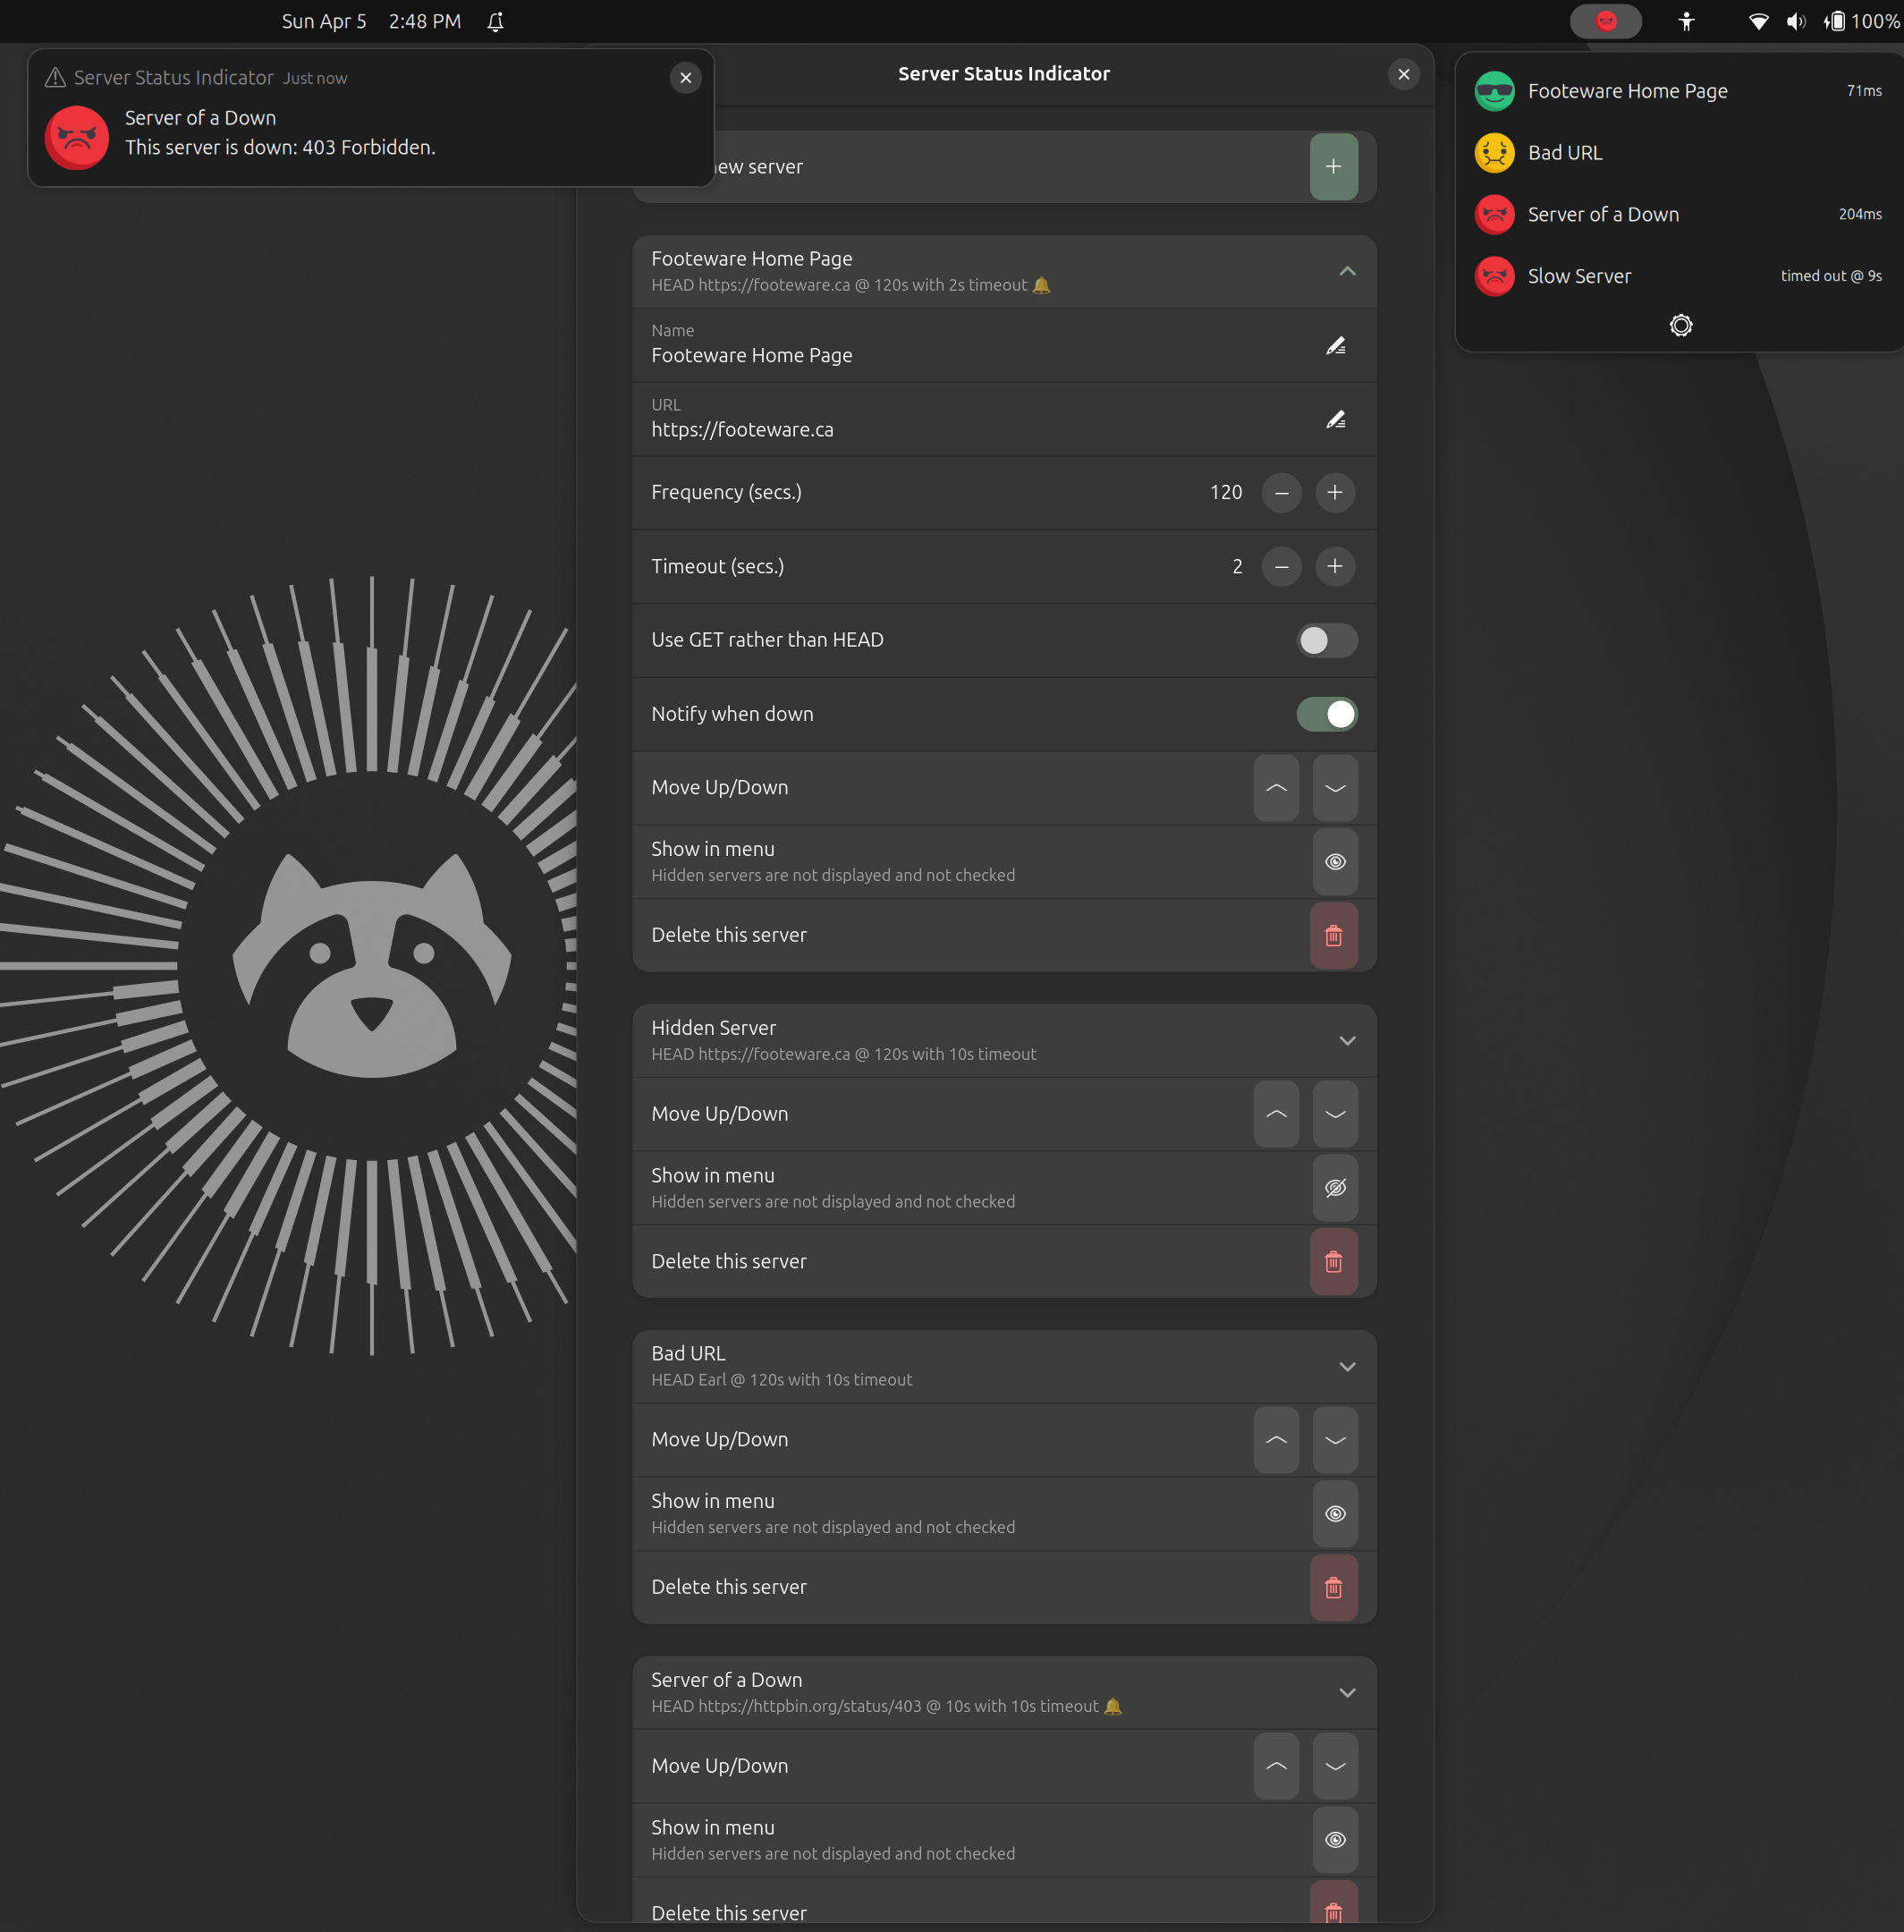
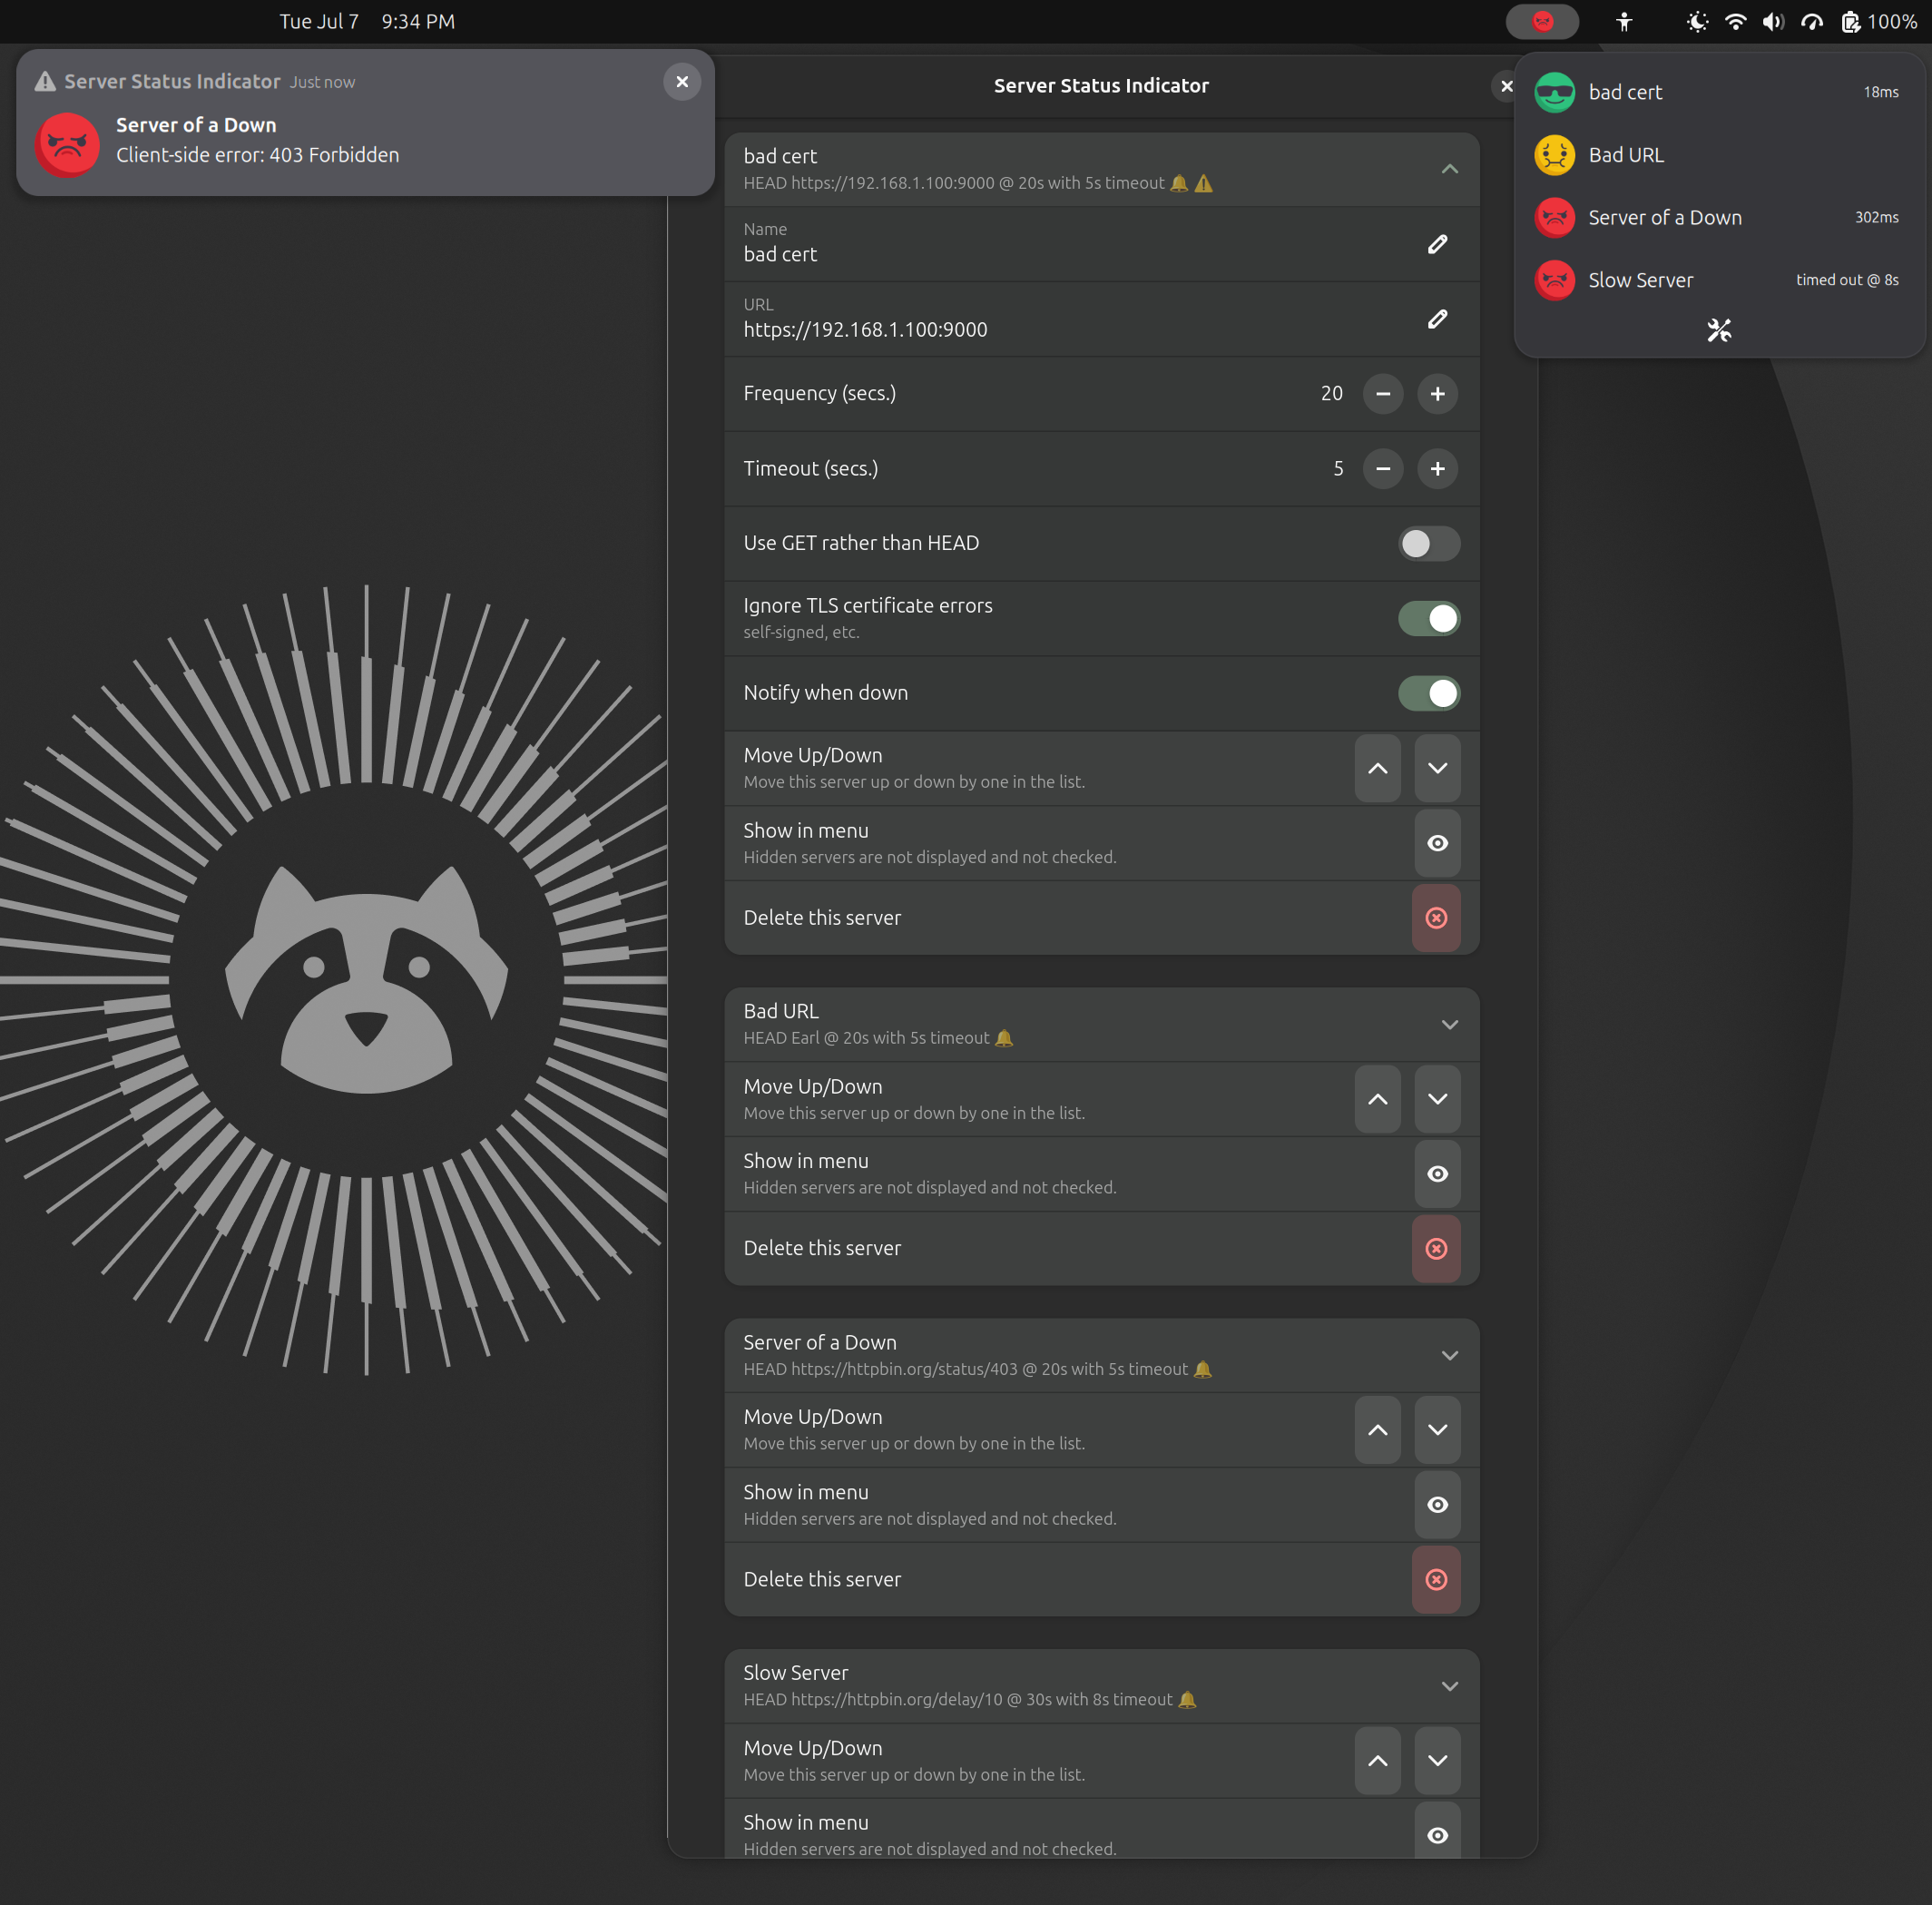
More suspend tweaking

diff --git a/serverStatusPanel.js b/serverStatusPanel.js
@@ -205,8 +205,6 @@ export const ServerStatusPanel = GObject.registerClass(
                 const cancellable = new Gio.Cancellable();
                 this.pendingCancellables.add(cancellable);
 
-                console.log(`🤨🤨🤨 requesting...`);
-
                 // start duration calc.
                 const start = Date.now();
 
@@ -219,12 +217,9 @@ export const ServerStatusPanel = GObject.registerClass(
                         // response received, complete duration calc.
                         const duration = Date.now() - start;
 
-                        console.log(`🤨🤨🤨 ...response`);
-
                         // remove completed request from pending set
                         this.pendingCancellables?.delete(cancellable);
                         if (cancellable.is_cancelled()) {
-                            console.log(`🤨🤨🤨 cancellable.is_cancelled`);
                             return;
                         }
 
@@ -233,7 +228,6 @@ export const ServerStatusPanel = GObject.registerClass(
                         let reason;
 
                         if (error) {
-                            console.log(`🤨🤨🤨 error = ${error}`);
                             // extension unable to send request
                             if (panelIcon && !panelIconDisposed && this.iconProvider) {
                                 reason = error.toString();
@@ -243,27 +237,22 @@ export const ServerStatusPanel = GObject.registerClass(
 
                         if (!newIcon) {
                             try {
-                                console.log(`🤨🤨🤨 try to get result`);
                                 // we aren't interested in the result if there is one, make this call to get exception
                                 session.send_and_read_finish(result);
                             } catch (e) {
-                                console.log(`🤨🤨🤨 in catch`, e);
                                 if (panelIcon && !panelIconDisposed && this.iconProvider) {
                                     // do not check for Gio.TlsError as it's handled later
                                     if (e instanceof Gio.IOErrorEnum) {
                                         if (e.matches(Gio.IOErrorEnum, Gio.IOErrorEnum.CANCELLED)) {
-                                            console.log(`🤨🤨🤨 Gio.IOErrorEnum.CANCELLED`);
                                             newIcon = this.iconProvider.getIcon(Status.Init);
                                         } else if (e.matches(Gio.IOErrorEnum, Gio.IOErrorEnum.TIMED_OUT)) {
-                                            console.log(`🤨🤨🤨 Gio.IOErrorEnum.TIMED_OUT`);
                                             // let duration calc below handle time outs; no icon or reason here
                                         } else {
-                                            console.log(`🤨🤨🤨 not Gio.IOErrorEnum.CANCELLED or Timed_OUT, setting status to down`);
+                                            console.log(` not Gio.IOErrorEnum.CANCELLED or Timed_OUT, setting status to down`);
                                             reason = e.message;
                                             newIcon = this.iconProvider.getIcon(Status.Down);
                                         }
                                     } else if (e instanceof Gio.ResolverError) {
-                                        console.log(`🤨🤨🤨 Gio.ResolverError`);
                                         newIcon = this.iconProvider.getIcon(Status.Init);
                                     }
                                 }
@@ -303,8 +292,6 @@ export const ServerStatusPanel = GObject.registerClass(
             let reason;
             let newIcon;
             let timedOut = false;
-
-            console.log(`🤨🤨🤨 processResponse`);
 
             // parse result if emoji widget hasn't been destroyed
             if (panelIcon && !panelIconDisposed && this.iconProvider) {
@@ -532,7 +519,6 @@ export const ServerStatusPanel = GObject.registerClass(
          * Called on system sleep.
          */
         suspend() {
-            console.log(`🤨🤨🤨 suspending`);
             if (this.intervalID) {
                 GLib.Source.remove(this.intervalID);
                 this.intervalID = null;
@@ -552,7 +538,6 @@ export const ServerStatusPanel = GObject.registerClass(
          * Restart polling after a resume event.
          */
         resume() {
-            console.log(`🤨🤨🤨 resuming`);
             this.update(
                 this.serverSetting.url,
                 this.panelIconDisposed,

diff --git a/README.md b/README.md
@@ -18,6 +18,8 @@ There's a configurable timeout on the requests (10 second default) and HTTP resp
 
 There's a per server option to show a notification when it's down. It defaults to false but can easily be switched on.
 
+There's another per server option to ignore TLS errors. Useful if using a self-signed certificate or for accessing a server using its IP whose certificate subject is a domain name.
+
 Servers can be made visible (default) or hidden, where the server is not displayed in the menu and no requests are made to it. Many thanks to [xingwangzhe](https://github.com/xingwangzhe) for that enhancement.
 
 Install at [extensions.gnome.org](https://extensions.gnome.org/extension/4687/server-status-indicator/) or use [Extension Manager](https://flathub.org/en/apps/com.mattjakeman.ExtensionManager).
@@ -31,7 +33,7 @@ To customize, the four **.svg** files in the **assets** folder can be swapped ou
 
 ## Backups
 
-Always a good idea. I thought about adding a backup/restore function but I realized [DConf Editor](https://apps.gnome.org/DconfEditor/) already works well. Just copy the JSON text to a backup file and paste to restore from a file.
+Always a good idea. I thought about adding a backup/restore function but I realized [DConf Editor](https://apps.gnome.org/DconfEditor/) already works well. Just copy the JSON text to a backup file and paste to restore from the file.
 
 ![dconf](assets/dconf.png)
 